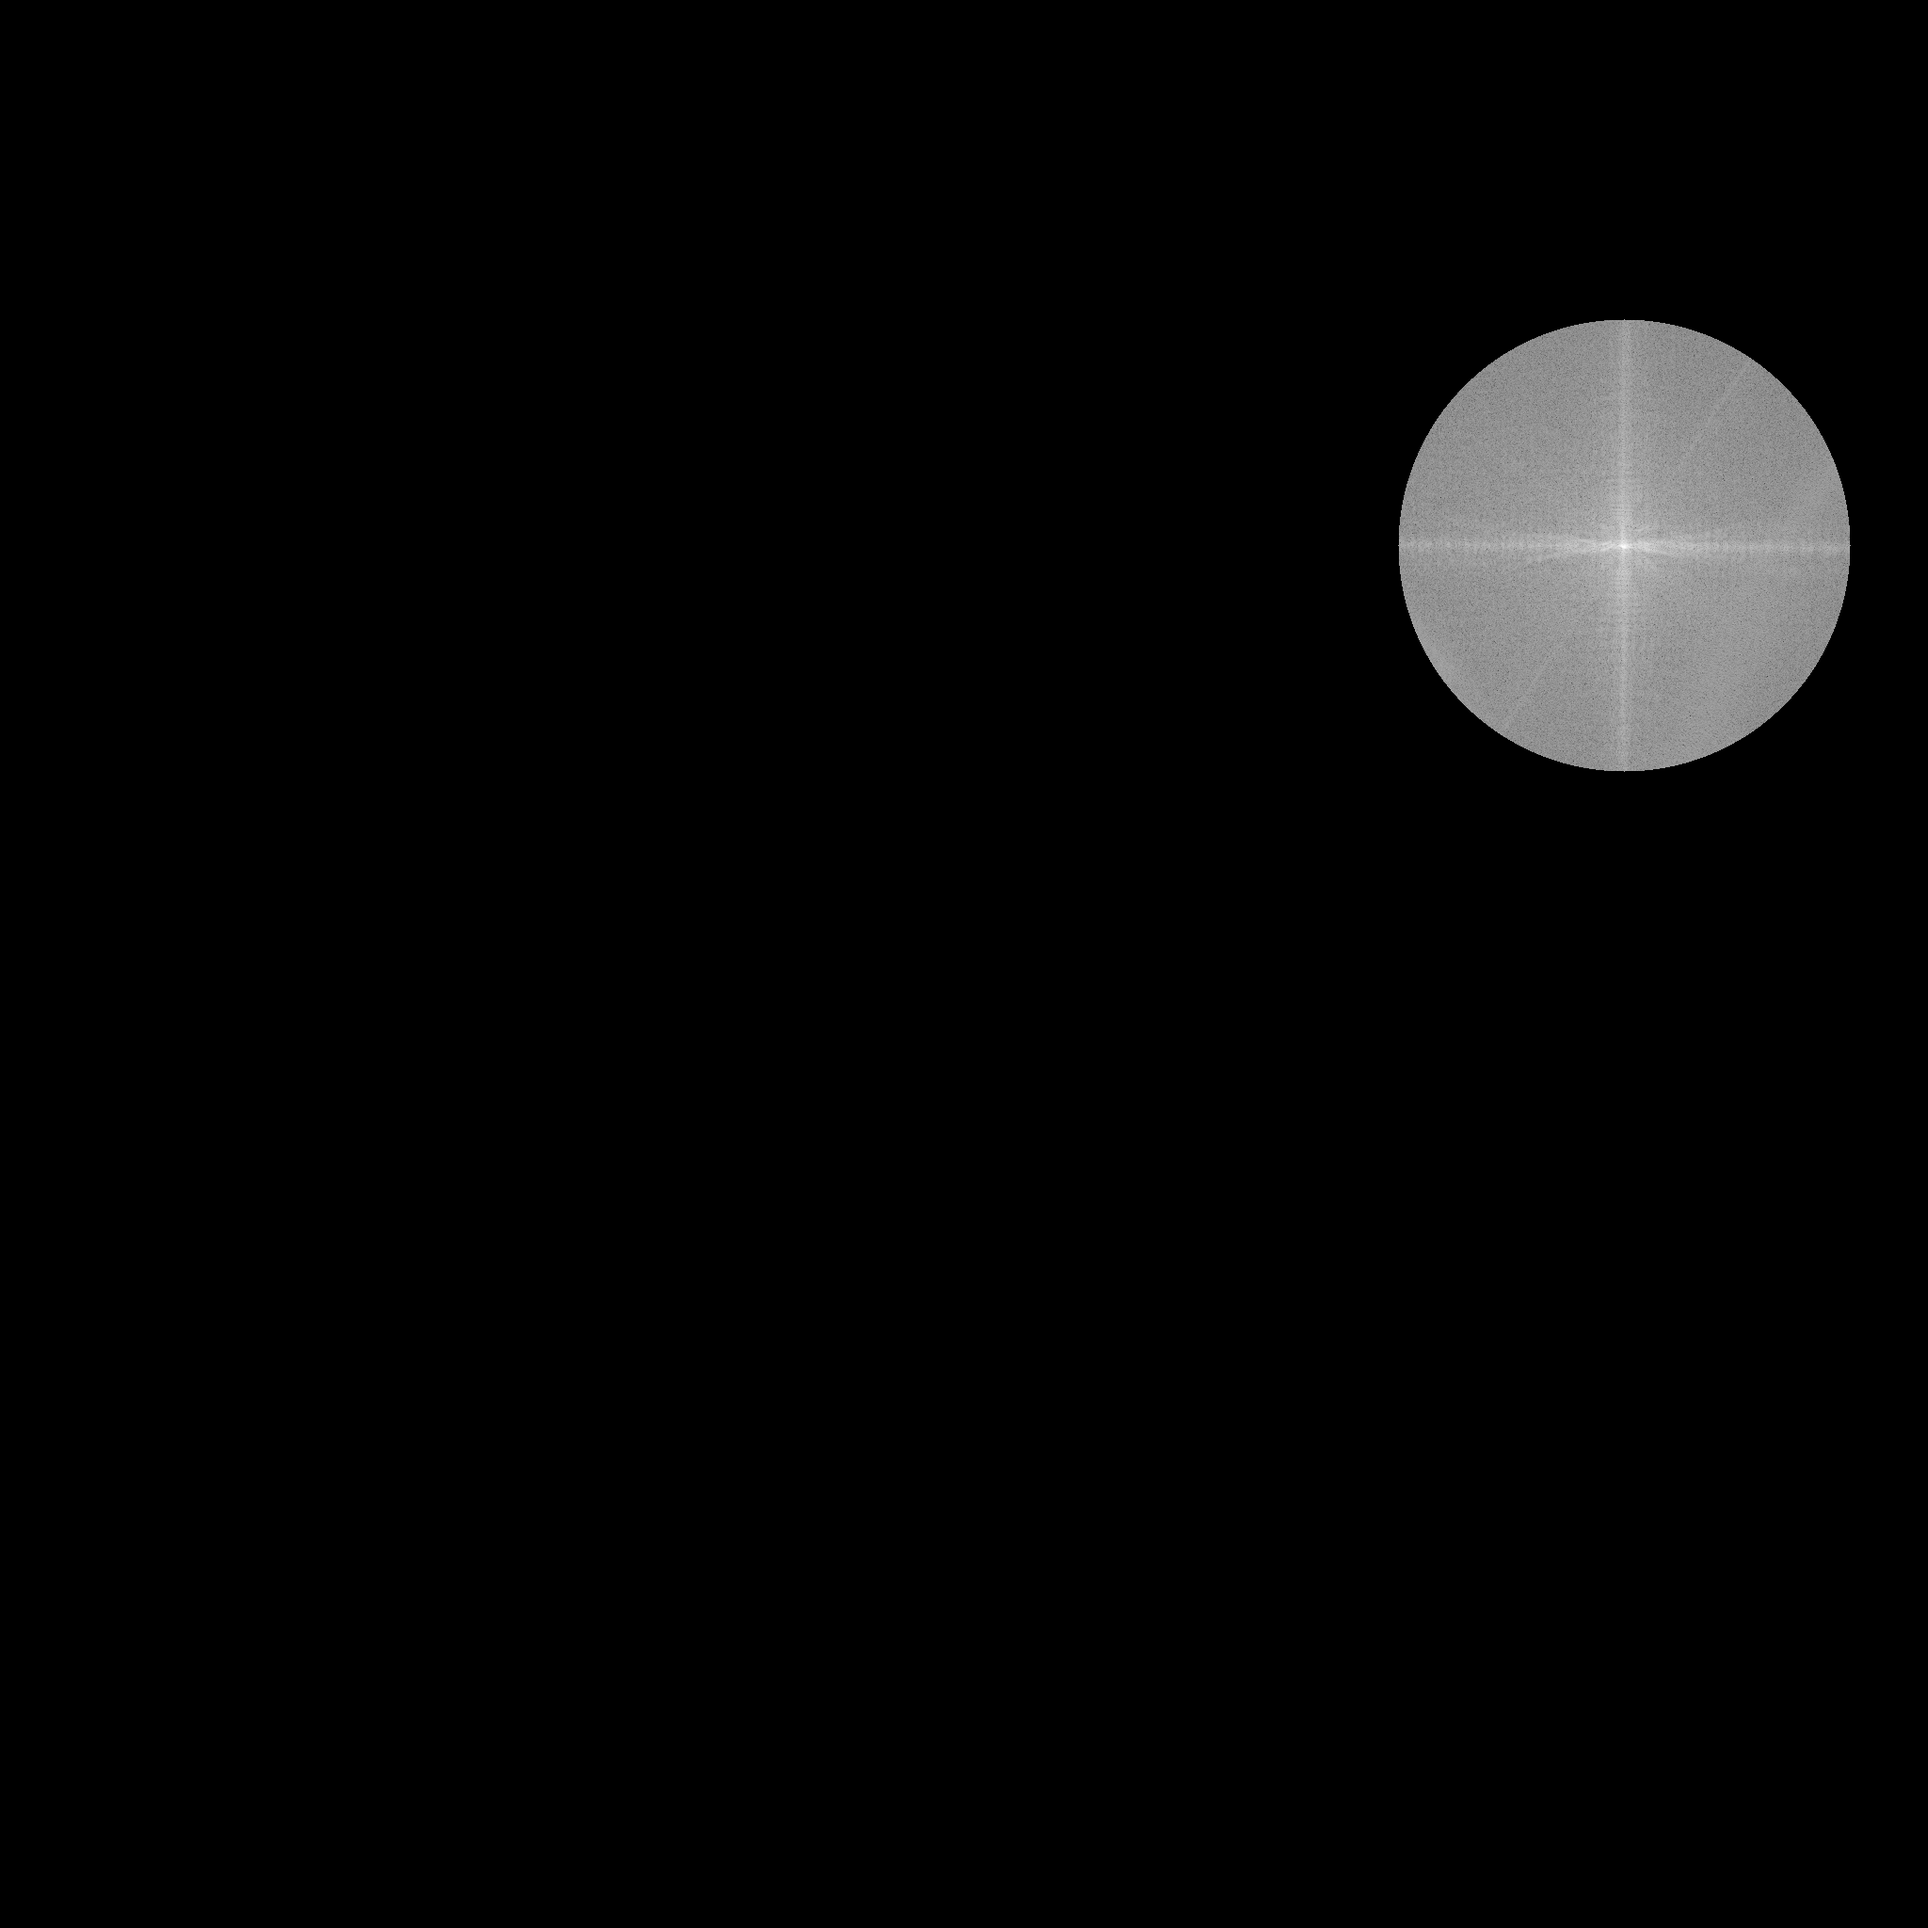
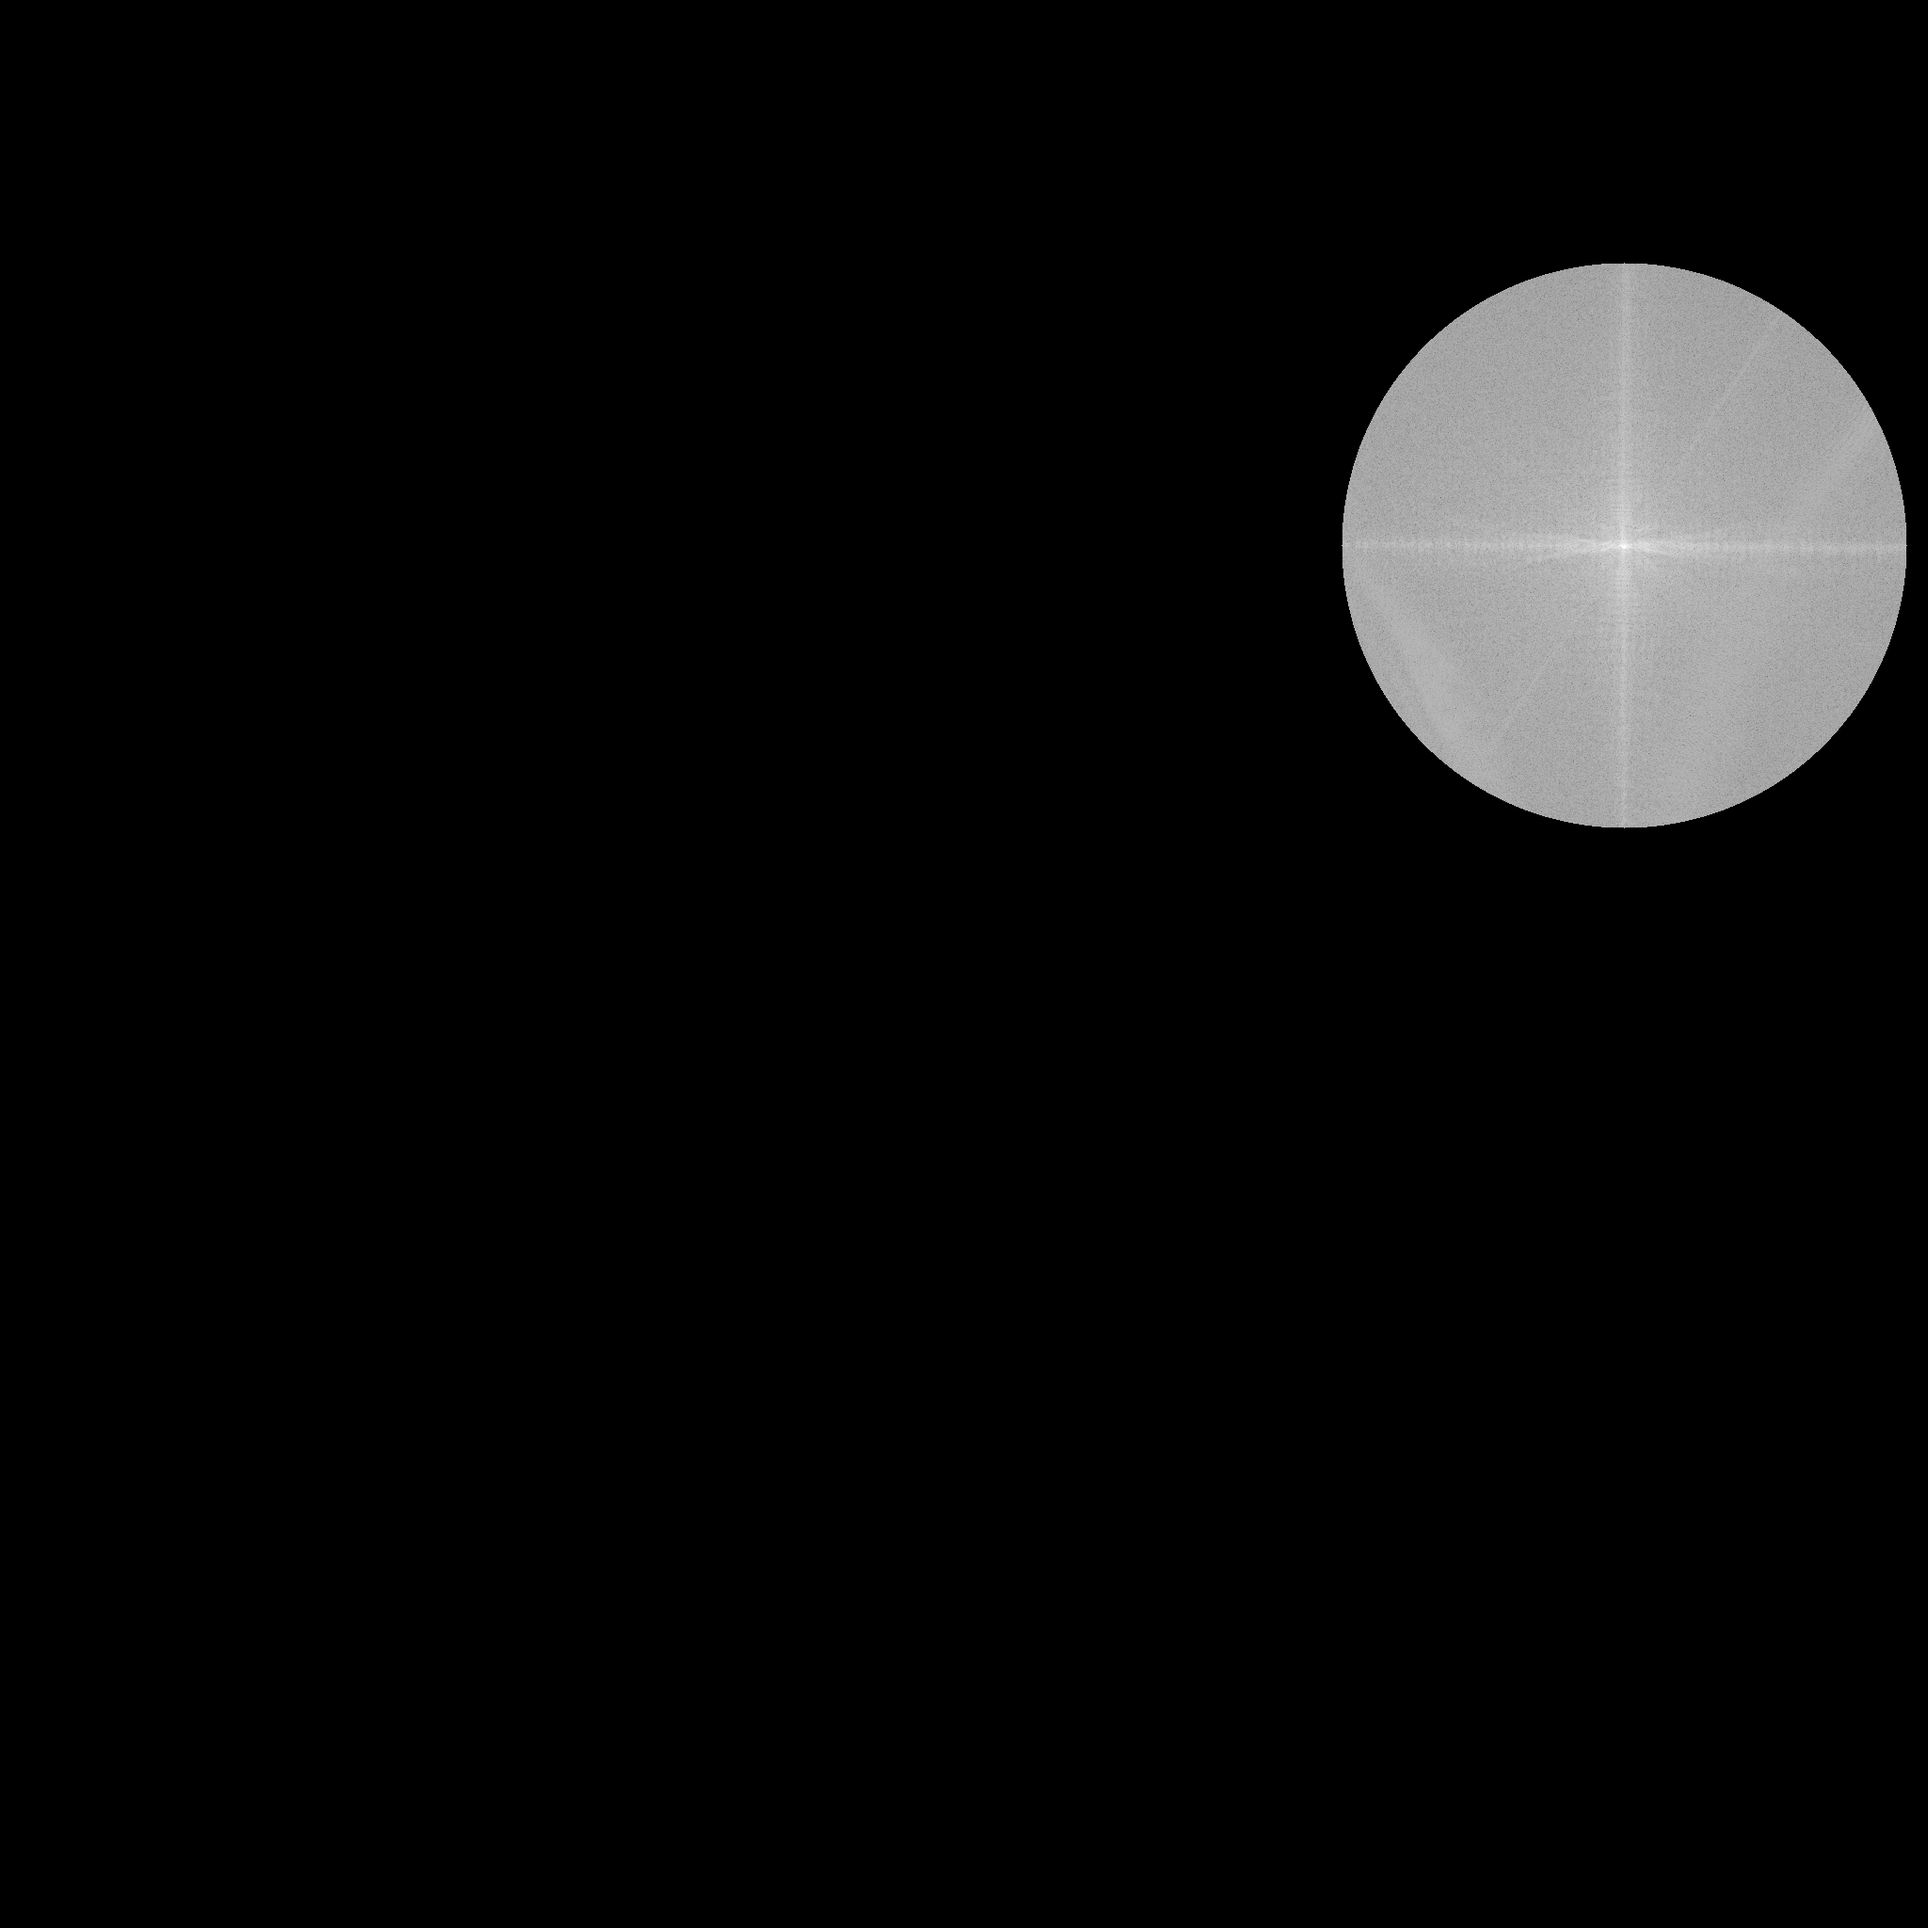
Inverse Fourier Transform

Changed region(s): [[0.6875, 0.125, 1.0, 0.4375]]

diff --git a/Punto 3.py b/Punto 3.py
@@ -11,7 +11,7 @@ def Tmatrix(w_length, deltax0, deltay0, M,N):
     x=np.arange(-M,M)
     y=np.arange(-N,N)
     x,y=np.meshgrid(x,y)
-    lim=600**2  #Radius of 1000um
+    lim=750**2  #Radius of 750um
     A=701*deltax0
     B=445*deltay0
     T_matrix=(deltax0*x-A)**2 + (deltay0*y+B)**2
@@ -52,8 +52,12 @@ holo= cv2.imread("Hologram.tiff",0)
 FTholo= np.fft.fft2(holo)
 FTholo= np.fft.fftshift(FTholo)
 Iholo=np.log(np.abs(FTholo)**2)
-Filter=T*Iholo
+Filter=T*FTholo
+IFilter=np.log((np.abs(Filter)**2)+0.0001)
+InvFT=np.fft.ifft2(Filter)
+IInvFT=np.abs(InvFT)**2
 
 plt.imsave("Transmittance.png",T, cmap='gray') 
 plt.imsave("Fourier Transform Hologram.png",Iholo, cmap='gray')   
-plt.imsave("FT Hologram filtered.png",Filter, cmap='gray')  
+plt.imsave("FT Hologram filtered.png",IFilter, cmap='gray')  
+plt.imsave("Inverse FT filtered.png",IInvFT, cmap='gray')   
